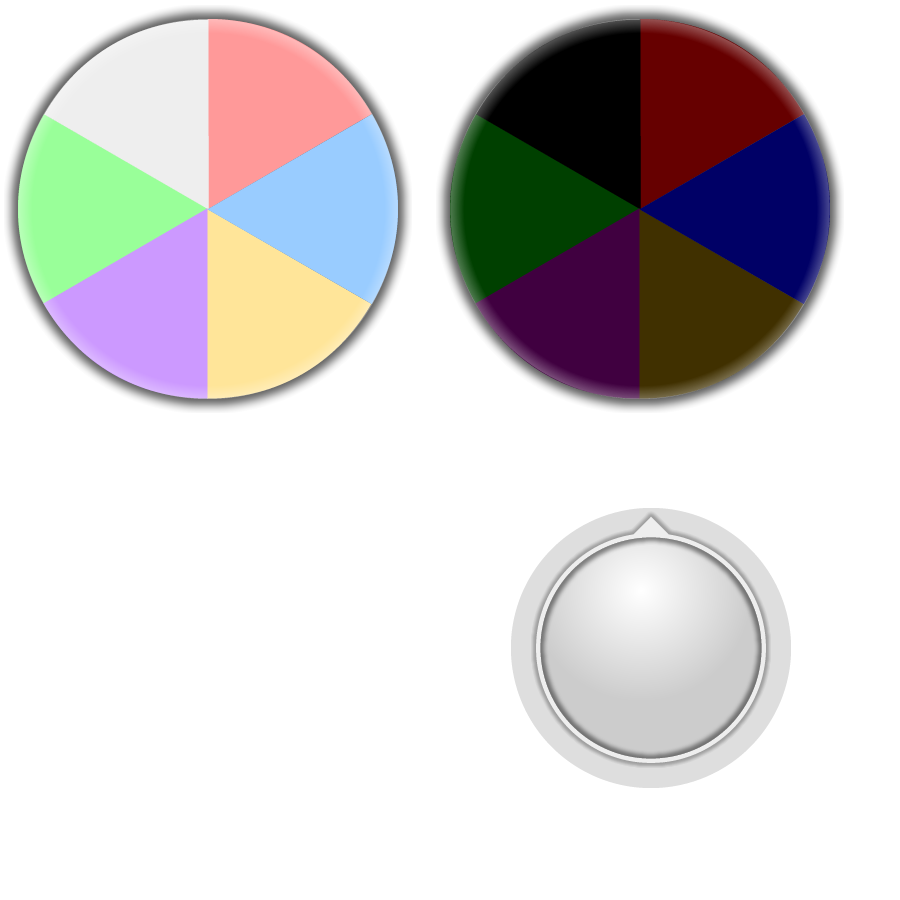
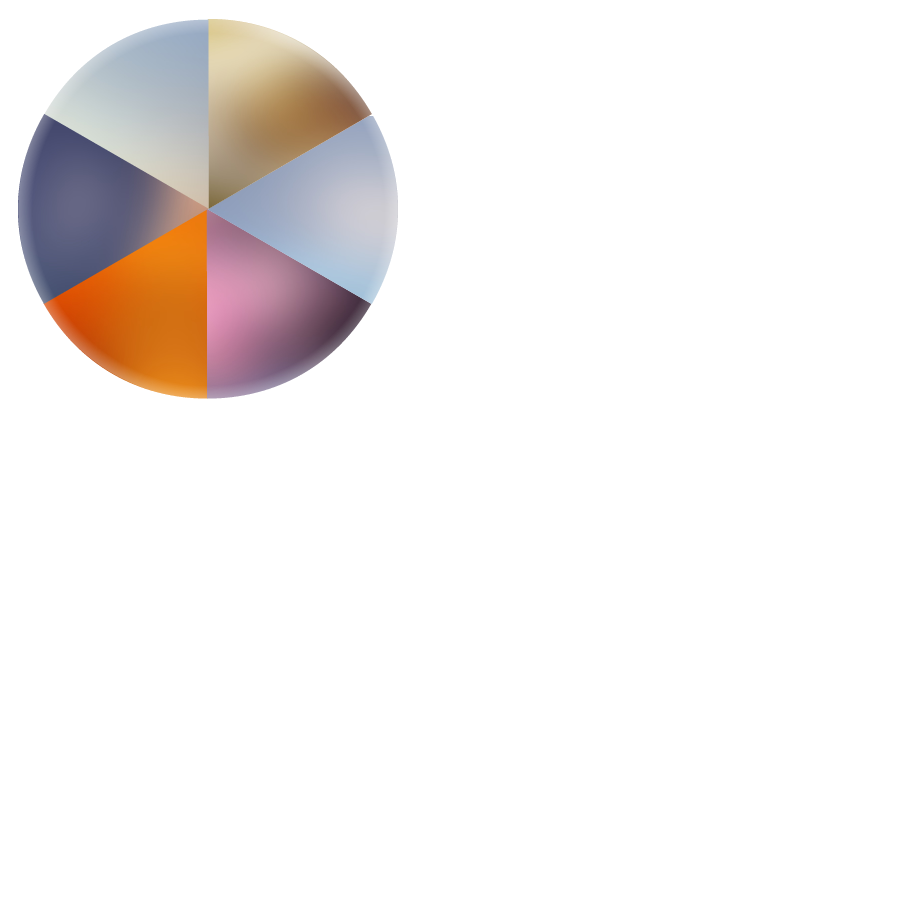
Adding blur rotary control and blur backgrounds

diff --git a/AlphaClock/ViewController.m b/AlphaClock/ViewController.m
@@ -38,6 +38,7 @@
 @synthesize clockViewDropShadow;
 @synthesize forgroundRotaryChooser;
 @synthesize backgroundRotaryChooser;
+@synthesize blurBGRotaryChooser;
 
 NSCalendar *gregorianCal;
 NSArray * hours;
@@ -50,6 +51,7 @@ NSString *lastHour;
 
 NSArray *forgroundColors;
 NSArray *backgroundColors;
+NSArray *blurs;
 
 NSUserDefaults *userDefaults;
 
@@ -87,6 +89,14 @@ NSUserDefaults *userDefaults;
 	[UIColor colorWithRed:0.00f green:0.00f blue:0.00f alpha:1.00f]
 	];
 	
+	blurs = @[
+	[UIImage imageNamed:@"blur1.jpg"],
+	[UIImage imageNamed:@"blur2.jpg"],
+	[UIImage imageNamed:@"blur3.jpg"],
+	[UIImage imageNamed:@"blur4.jpg"],
+	[UIImage imageNamed:@"blur5.jpg"],
+	[UIImage imageNamed:@"blur6.jpg"]
+	];
 	
 	userDefaults = [NSUserDefaults standardUserDefaults];
 
@@ -183,6 +193,15 @@ NSUserDefaults *userDefaults;
 	backgroundRotaryChooser.knobImage = [UIImage imageNamed:@"dial"];
 	backgroundRotaryChooser.tag = 200;
 	
+	blurBGRotaryChooser = [[TPTRotaryChooser alloc] initWithFrame:CGRectMake(0, 0, 200, 200)];
+	blurBGRotaryChooser.backgroundColor = [UIColor clearColor];
+	blurBGRotaryChooser.numberOfSegments = 6;
+	blurBGRotaryChooser.delegate = self;
+	blurBGRotaryChooser.backgroundImage = [UIImage imageNamed:@"blurs"];
+	blurBGRotaryChooser.knobImage = [UIImage imageNamed:@"dial"];
+	blurBGRotaryChooser.tag = 300;
+	
+	
 	// set the selected segments of our rotary choosers
 	for (int a = 0; a < [forgroundColors count]; a++)
 	{
@@ -207,6 +226,7 @@ NSUserDefaults *userDefaults;
 	
 	[self.optionsView addSubview:forgroundRotaryChooser];
 	[self.optionsView addSubview:backgroundRotaryChooser];
+	[self.optionsView addSubview:blurBGRotaryChooser];
 	
 	[self.configButton setAlpha:kHideAlpha];
 	
@@ -407,11 +427,23 @@ NSUserDefaults *userDefaults;
 	}
 	else if (chooser.tag == 200)
 	{
+		// clear any background image if needed
+		[self.clockBackground setImage:nil];
 		UIColor * newBackgroundColor = (UIColor*)[backgroundColors objectAtIndex:chooser.selectedSegment];
 		[self.clockBackground setBackgroundColor:newBackgroundColor];
 		NSString *stringColor = [UIColor stringFromUIColor:newBackgroundColor];
 		[userDefaults setObject:stringColor forKey:optionKeyBackgroundColor];
 	}
+	
+	else if (chooser.tag == 300)
+	{
+		UIImage * newImage = (UIImage*)[blurs objectAtIndex:chooser.selectedSegment];
+		[self.clockBackground setImage:newImage];
+		//NSString *stringColor = [UIColor stringFromUIColor:newBackgroundColor];
+		//[userDefaults setObject:stringColor forKey:optionKeyBackgroundColor];
+	}
+
+	
 	[userDefaults synchronize];
 }
 
@@ -472,6 +504,10 @@ NSUserDefaults *userDefaults;
 	self.clockBackground.frame = self.optionsView.frame = CGRectMake(0, 0, width, height);
 	 
 	backgroundRotaryChooser.frame = CGRectMake(22, height - 200 - 25, 200, 200);
+	
+	
+	blurBGRotaryChooser.frame = CGRectMake(22, height/2 - 100, 200, 200);
+	
 }
 
 #pragma mark -

diff --git a/AlphaClock/ViewController.h b/AlphaClock/ViewController.h
@@ -25,5 +25,6 @@
 
 @property (nonatomic) TPTRotaryChooser *forgroundRotaryChooser;
 @property (nonatomic) TPTRotaryChooser *backgroundRotaryChooser;
+@property (nonatomic) TPTRotaryChooser *blurBGRotaryChooser;
 
 @end
